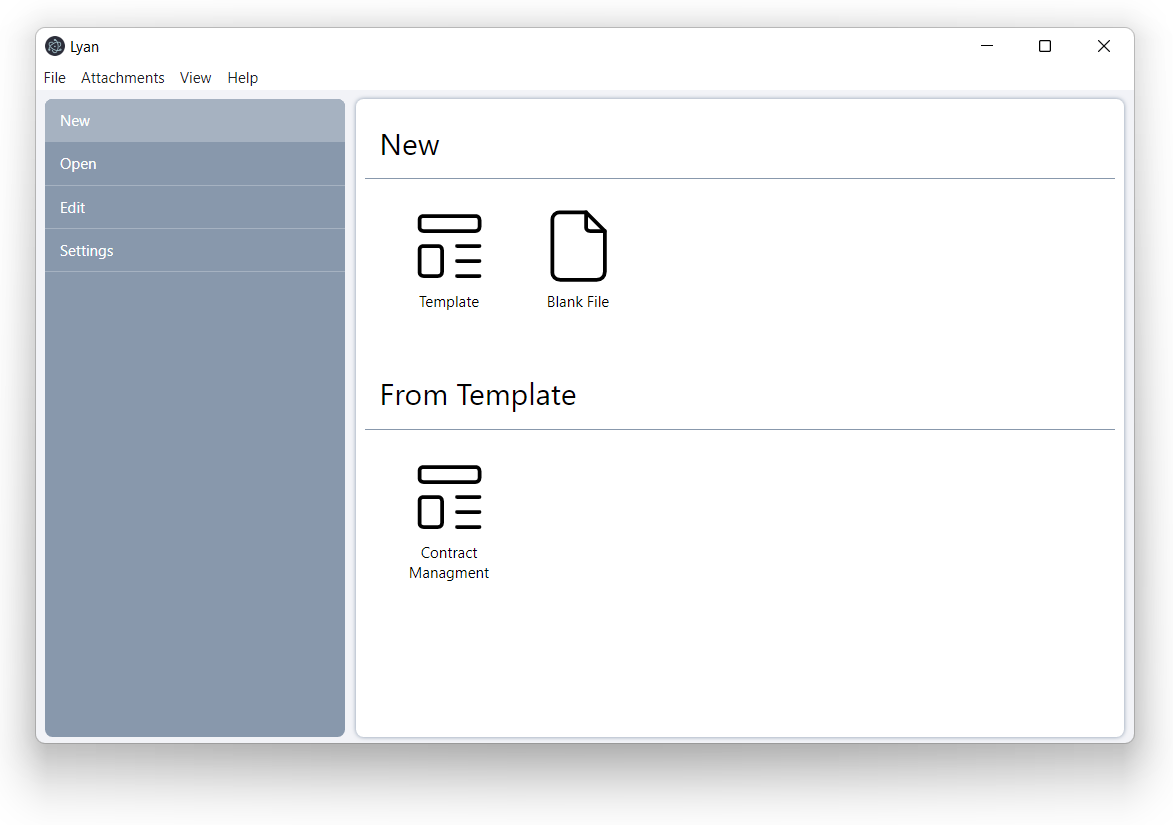
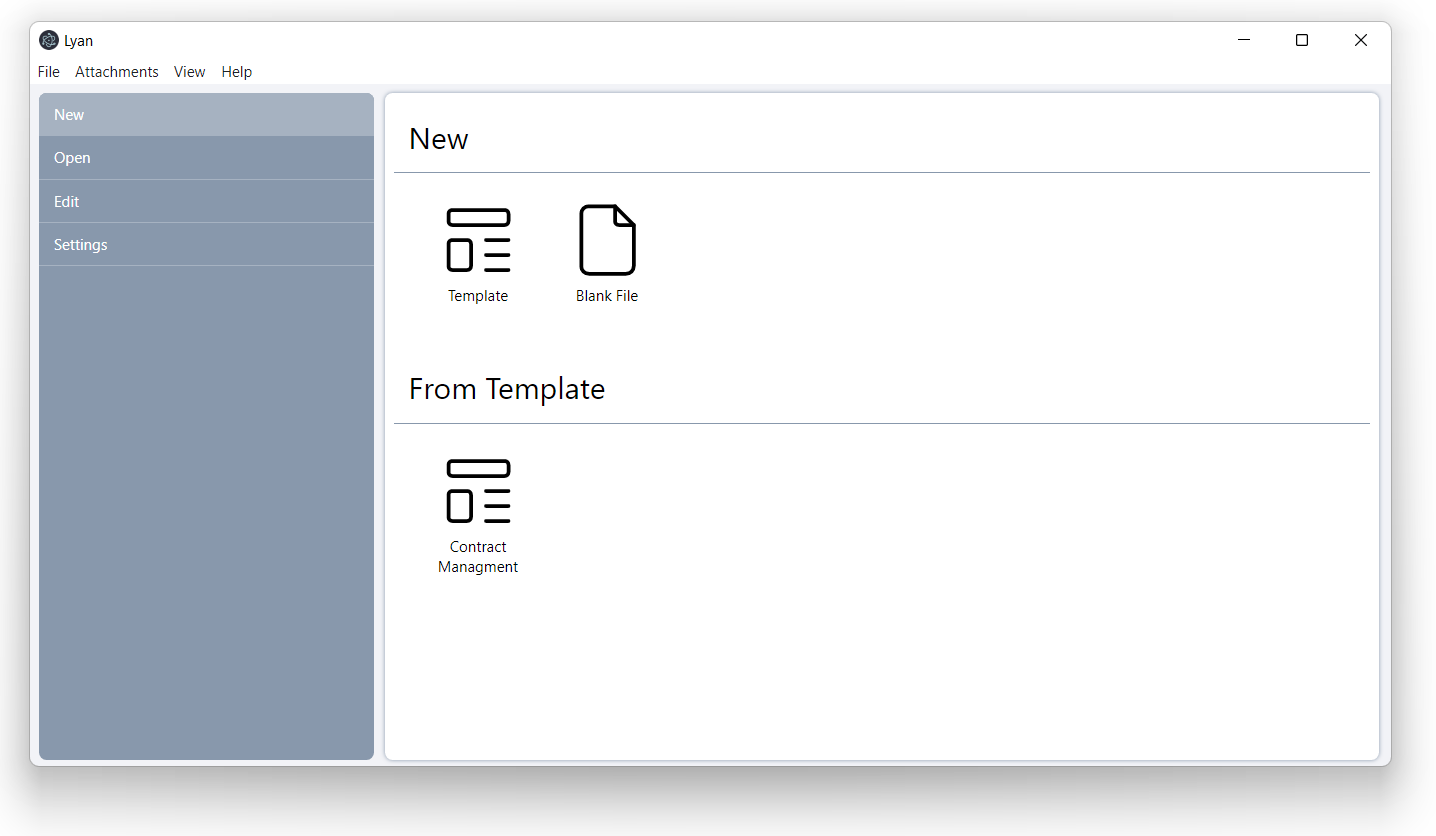
more screenshot added

Changed region(s): [[0.0, 0.0303, 0.9821, 0.9383], [0.2762, 0.0303, 0.7366, 0.0605], [0.89, 0.0303, 0.9514, 0.0605]]

diff --git a/src/redux/reducer/reducer.js b/src/redux/reducer/reducer.js
@@ -408,8 +408,6 @@ function reducer(state = initialState, action) {
         zIndex: { ...state.zIndex, [action.id]: number },
       };
     case types.MOVE_ELEMENT:
-      let key = state.mode === "file" ? "file" : "template";
-
       if (action.what) {
         let { sheetIndex } = state,
           { from, where, what } = action,
@@ -457,6 +455,7 @@ function reducer(state = initialState, action) {
 
               array[i] = { ...array[from] };
               array[from] = target;
+
               break;
             }
 

diff --git a/src/components/sheet/items.js b/src/components/sheet/items.js
@@ -112,7 +112,7 @@ function Items({
 
             if (!activeItem) return;
 
-            if (item.id === activeItem?.id) {
+            if (item.id === activeItem.id) {
               setItemIndex(item.index + 1);
             } else if (item.index + 1 === activeItem.index) {
               setItemIndex(item.index);

diff --git a/README.md b/README.md
@@ -4,6 +4,7 @@
 
 <div align="center">
   <img src="https://github.com/shahabyazdi/lyan/blob/master/screenshots/v0.1.0.png?raw=true" alt="lyan app"/>
+  <img src="https://github.com/shahabyazdi/lyan/blob/master/screenshots/v0.1.0-2.png?raw=true" alt="lyan app"/>
 </div>
 
 # Building Package
